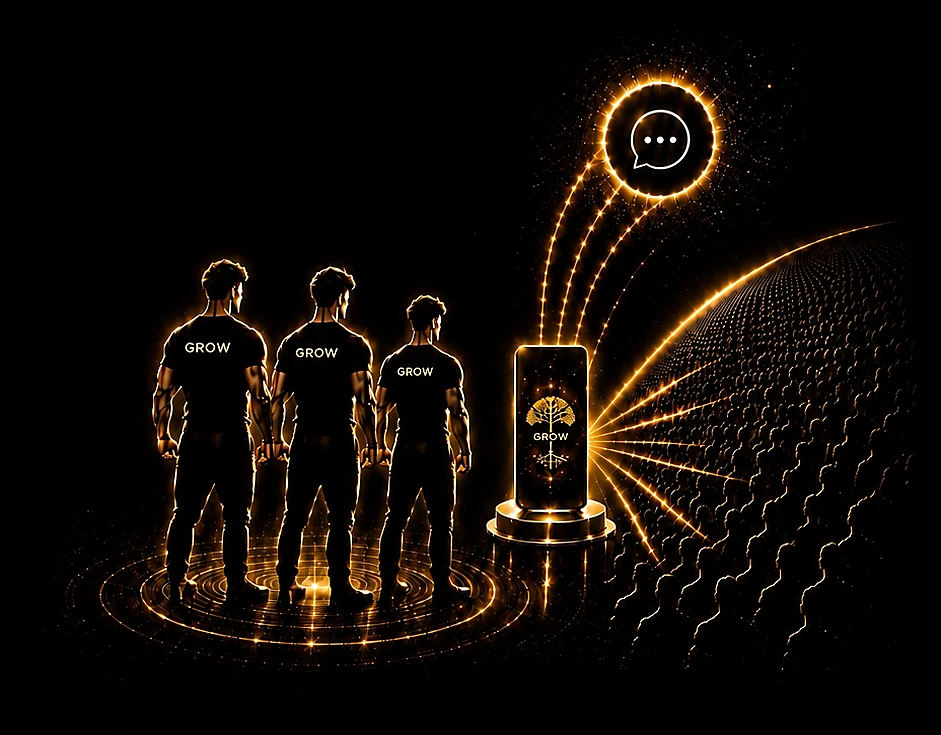
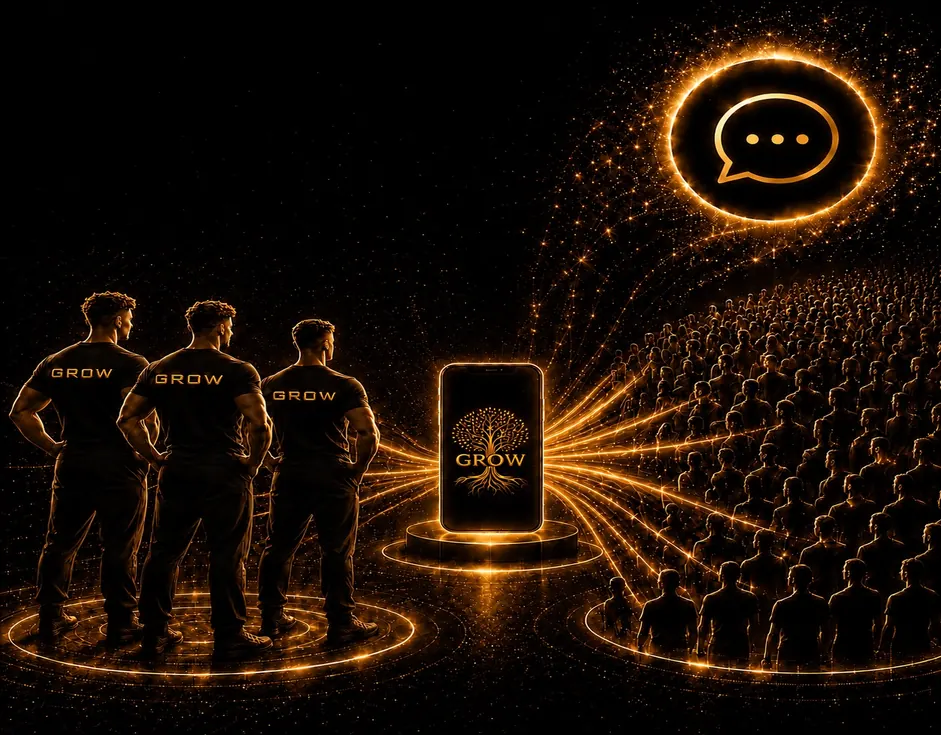
kleine Design fixes

diff --git a/features/feed/components/VideoRatingSlider.jsx b/features/feed/components/VideoRatingSlider.jsx
@@ -226,17 +226,6 @@ export default function VideoRatingSlider({
         <View style={styles.trackGlow} />
         <View style={styles.track} />
 
-        {[0, 0.25, 0.5, 0.75, 1].map((position) => (
-          <View
-            key={position}
-            style={[
-              styles.tick,
-              {
-                top: TRACK_HEIGHT * position - StyleSheet.hairlineWidth,
-              },
-            ]}
-          />
-        ))}
       </View>
 
       <View style={[styles.thumb, { top: thumbY - THUMB_SIZE / 2 }]} pointerEvents="none">
@@ -305,15 +294,6 @@ const styles = StyleSheet.create({
     opacity: 0.72,
   },
 
-  tick: {
-    position: 'absolute',
-    right: s(2),
-    width: s(8),
-    height: StyleSheet.hairlineWidth,
-    backgroundColor: COLORS.gold,
-    opacity: 0.55,
-  },
-
   thumb: {
     position: 'absolute',
     right: s(16.5),
@@ -340,7 +320,7 @@ const styles = StyleSheet.create({
 
   previewBubble: {
     position: 'absolute',
-    right: s(42),
+    right: s(76),
     width: PREVIEW_SIZE,
     height: PREVIEW_SIZE,
     borderRadius: PREVIEW_SIZE / 2,

diff --git a/features/feed/components/VideoFeed.jsx b/features/feed/components/VideoFeed.jsx
@@ -277,10 +277,21 @@ export default function VideoFeed({
         return;
       }
 
+      const previousSavedState = video.saved;
+      const optimisticSavedState = !previousSavedState;
+
       bookmarkRequestRef.current.add(id);
 
+      // Sofortiges visuelles Feedback: Das Bookmark wird direkt umgeschaltet,
+      // während die Supabase-Anfrage im Hintergrund läuft.
+      setFeedData((prevData) =>
+        prevData.map((item) =>
+          item.id === id ? { ...item, saved: optimisticSavedState } : item,
+        ),
+      );
+
       try {
-        const newSavedState = await toggleVideoBookmark(id, video.saved);
+        const newSavedState = await toggleVideoBookmark(id, previousSavedState);
 
         if (!isMountedRef.current) {
           return;
@@ -319,6 +330,14 @@ export default function VideoFeed({
         );
       } catch (error) {
         console.log("Fehler beim Speichern des Videos:", error);
+
+        if (isMountedRef.current) {
+          setFeedData((prevData) =>
+            prevData.map((item) =>
+              item.id === id ? { ...item, saved: previousSavedState } : item,
+            ),
+          );
+        }
       } finally {
         bookmarkRequestRef.current.delete(id);
       }

diff --git a/features/feedback/components/FeedbackHero.jsx b/features/feedback/components/FeedbackHero.jsx
@@ -40,7 +40,7 @@ export default function FeedbackHero() {
 
 const styles = StyleSheet.create({
   heroStage: {
-    height: sv(420),
+    height: sv(380),
     marginHorizontal: -s(20),
     marginBottom: sv(18),
     position: 'relative',
@@ -49,11 +49,10 @@ const styles = StyleSheet.create({
   },
   heroImage: {
     position: 'absolute',
-    left: 0,
-    right: 0,
-    top: sv(52),
-    width: '100%',
-    height: sv(350),
+    top: sv(57),
+    alignSelf: 'center',
+    width: '94%',
+    height: sv(290),
   },
   topFade: {
     position: 'absolute',
@@ -89,7 +88,7 @@ const styles = StyleSheet.create({
     fontSize: sf(15),
     fontWeight: '700',
     lineHeight: sv(20),
-    marginBottom: sv(9),
+    marginBottom: sv(4),
   },
   description: {
     color: COLORS.textDim,

diff --git a/features/tools/overview/styles/toolsOverviewStyles.js b/features/tools/overview/styles/toolsOverviewStyles.js
@@ -397,12 +397,9 @@ export const styles = StyleSheet.create({
   },
 
   mentorButton: {
-    borderWidth: StyleSheet.hairlineWidth,
-    borderColor: 'rgba(231,201,138,0.32)',
-    borderRadius: 999,
     paddingVertical: compact ? sv(5) : sv(6),
     paddingHorizontal: compact ? s(8) : s(10),
-    backgroundColor: 'rgba(255,255,255,0.025)',
+    transform: [{ translateY: -sv(30)}]
   },
 
   mentorButtonText: {

diff --git a/features/feed/components/VideoOverlay.jsx b/features/feed/components/VideoOverlay.jsx
@@ -185,12 +185,12 @@ const styles = StyleSheet.create({
   },
 
   saveButton: {
-    marginTop: sv(36),
+    marginTop: sv(30),
     width: s(42),
     height: s(42),
     justifyContent: 'center',
     alignItems: 'center',
-    transform: [{ translateX: s(2) }]
+    transform: [{ translateX: s(2,2) }]
   },
 
   pauseOverlay: {

diff --git a/features/tools/overview/screens/ToolsOverviewScreen.jsx b/features/tools/overview/screens/ToolsOverviewScreen.jsx
@@ -447,7 +447,7 @@ export default function ToolsScreen() {
               </View>
 
               <View style={styles.mentorButton} pointerEvents="none">
-                <Text style={styles.mentorButtonText}>Erfahre mehr!</Text>
+                <Text style={styles.mentorButtonText}>Erfahre mehr! &gt;</Text>
               </View>
             </View>
           </ImageBackground>